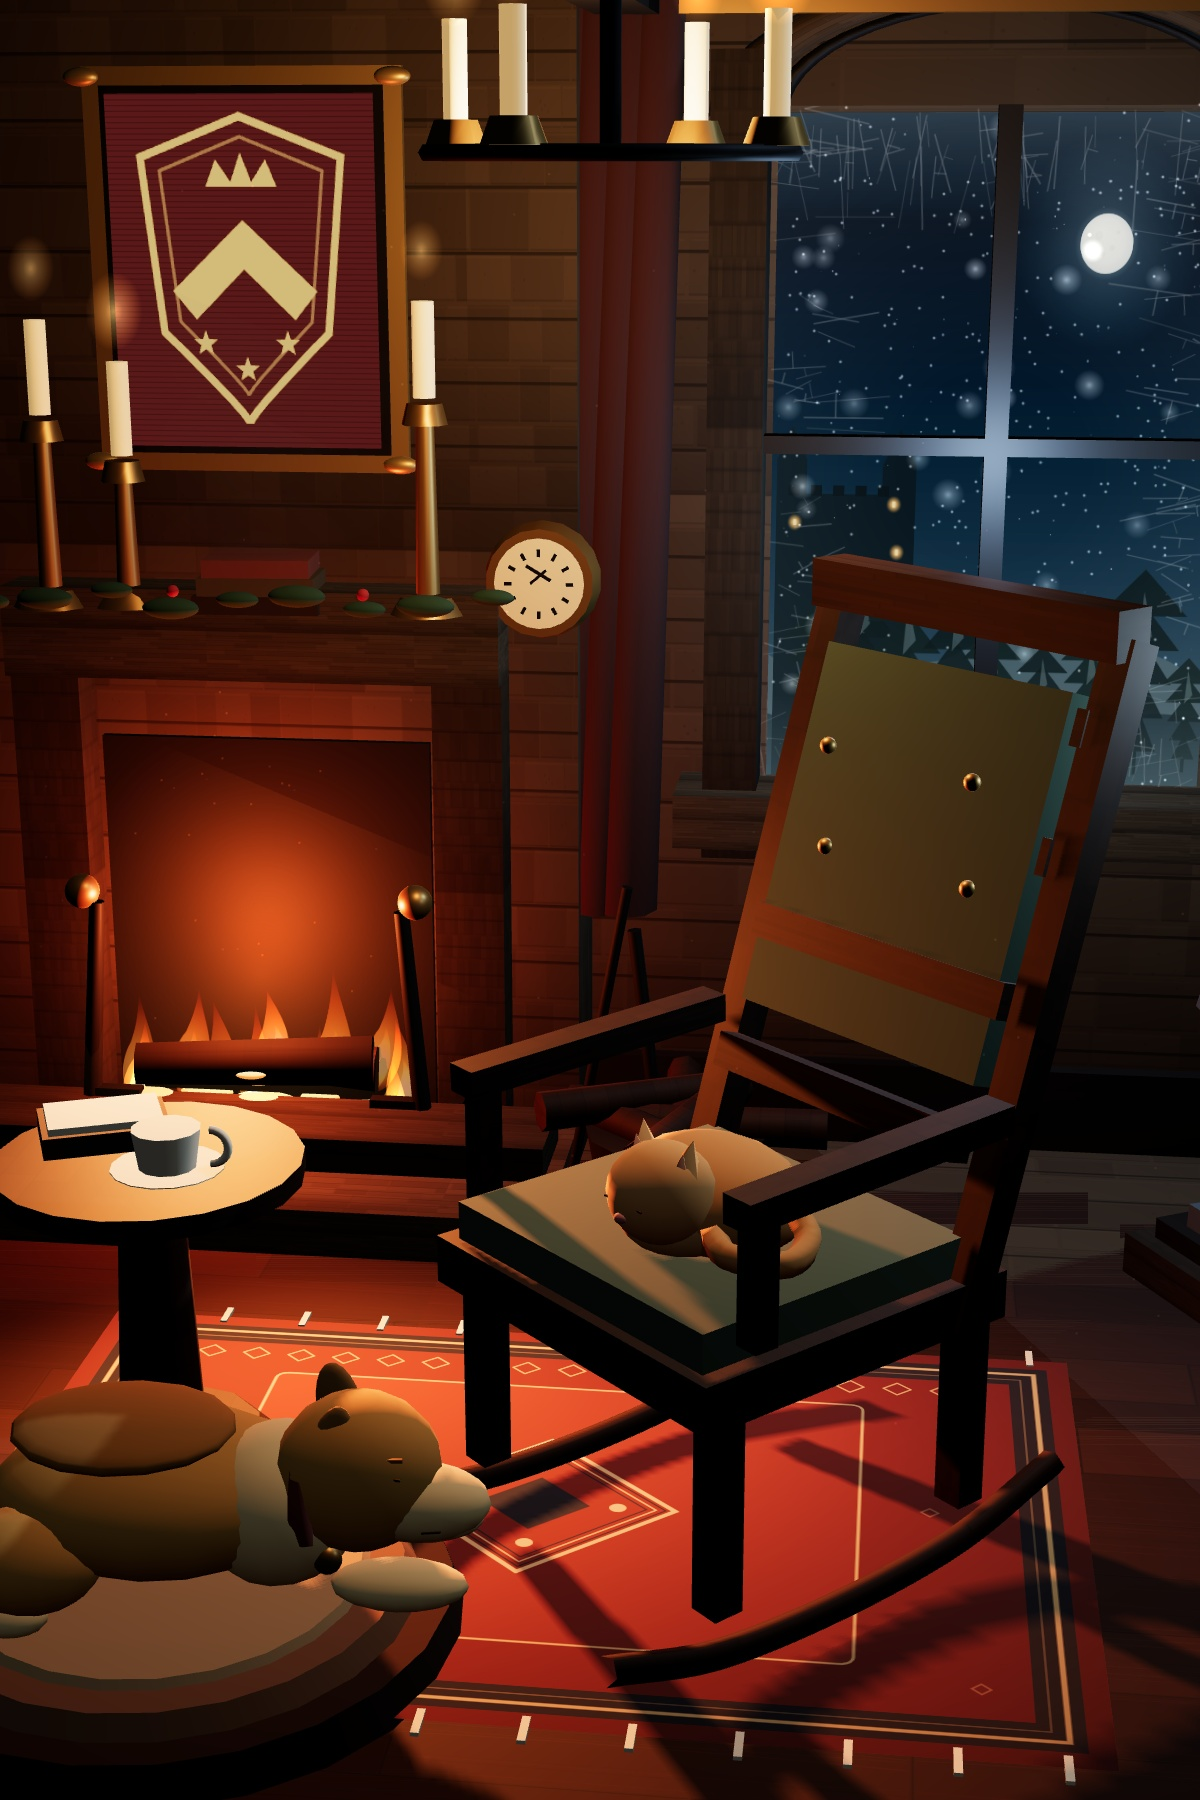
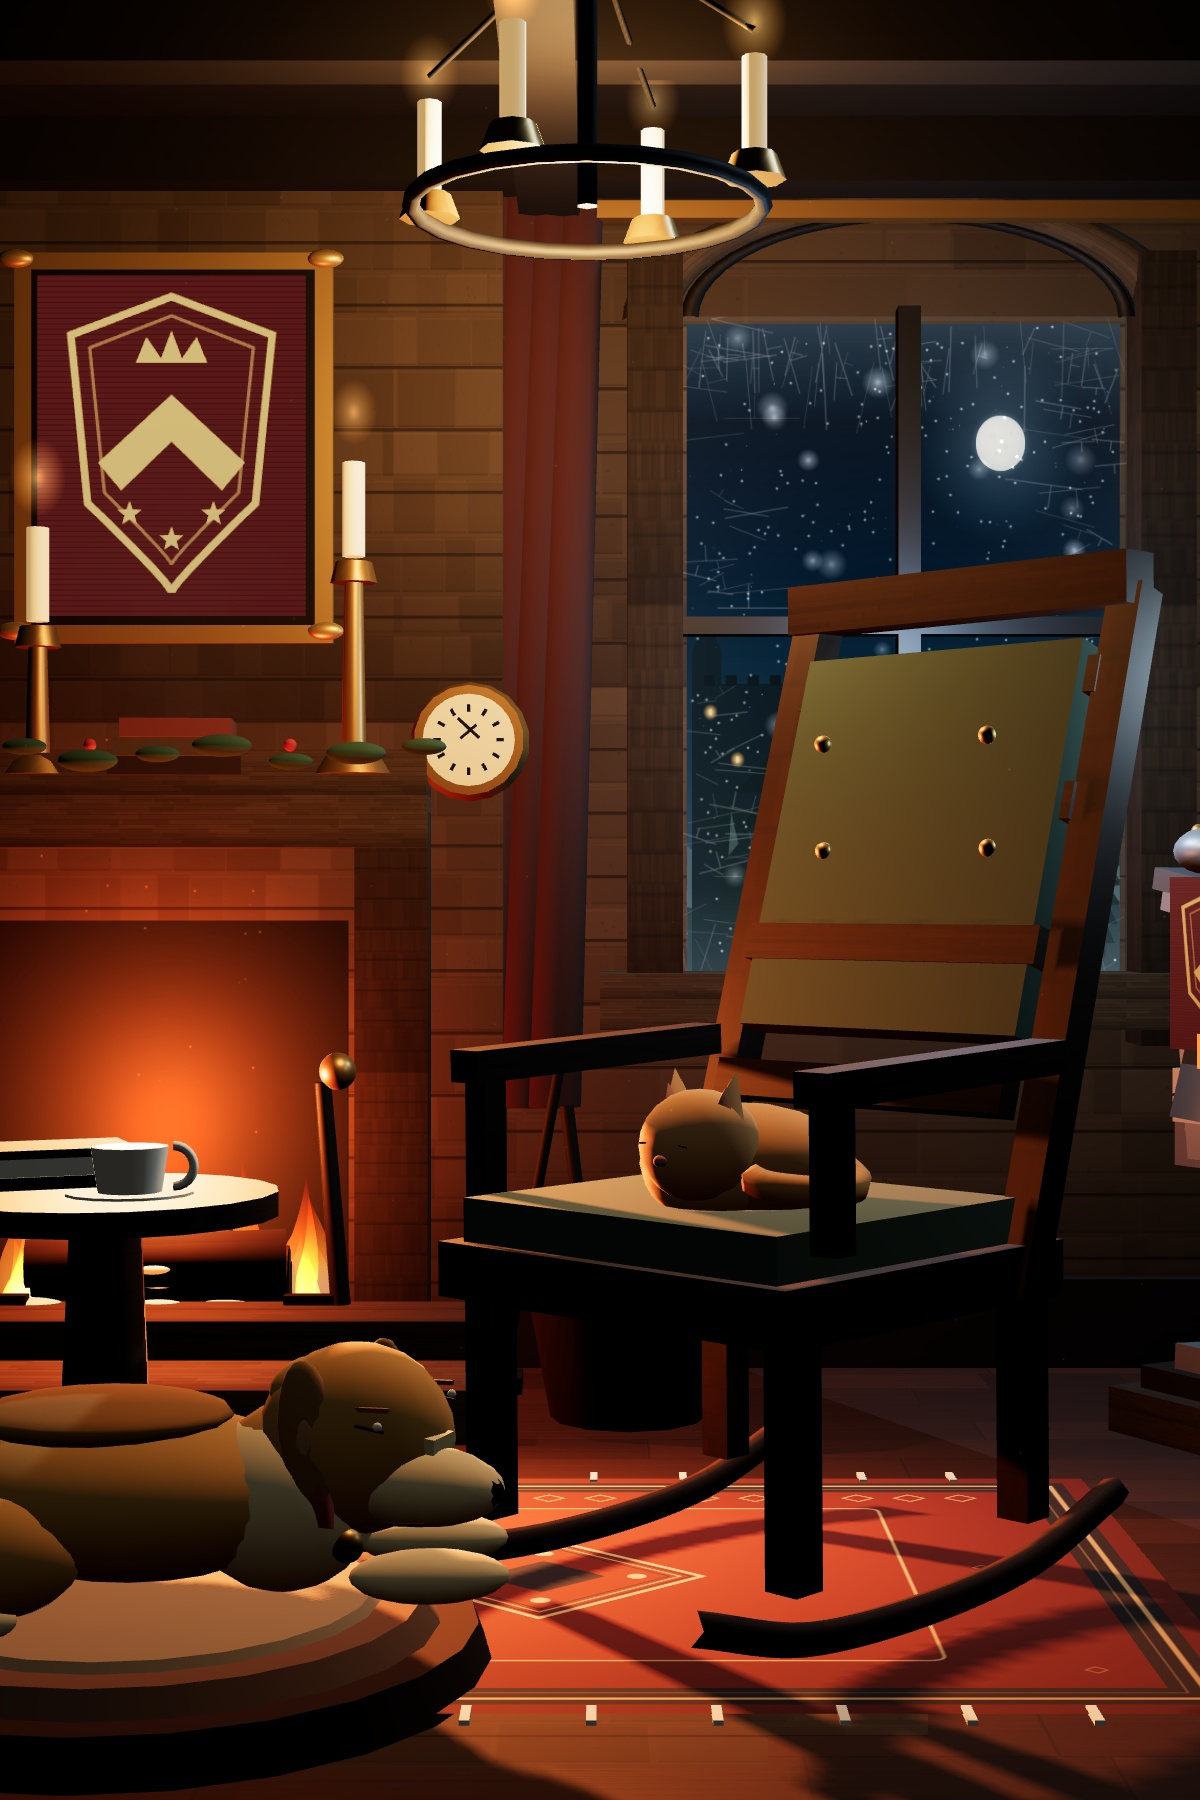
feat: 炉火节奏、雪速与桌上器物互动
添柴后火势拉满，火焰更大更亮，约十五秒线性落回最低余烬位；未添柴时缓慢自然转暗，最低仍保留火苗。雪片速度再降到原来的三成。铠甲靠右墙摆放，敬礼收敛为不穿模的低头动作。新增茶杯、书本、摇椅和蜡烛互动：茶杯冒热气，书本开合，摇椅晃动时猫随椅身同步，蜡烛可逐支熄灭/点亮并影响吊灯亮度。狗的头部、眼睛、耳朵和项圈重做。

diff --git a/hearth-keep/index.html b/hearth-keep/index.html
@@ -304,7 +304,7 @@
     <div class="hints">
       <span class="key">拖拽</span><span>环视</span>
       <span class="key">滚轮</span><span>推近</span>
-      <span class="key">点击</span><span>铠甲 · 炉火 · 猫狗</span>
+      <span class="key">点击</span><span>器物 · 猫狗</span>
       <span class="key">F</span><span>添柴</span>
       <span class="key">双击</span><span>归位</span>
     </div>
@@ -1256,7 +1256,7 @@ function candlestick(x, z, h = .28, lit = true){
     flame.position.set(0, .17 + h + .18, 0);
     flame.scale.set(.12, .16, 1);
     g.add(flame);
-    candleFlames.push({ sprite: flame, phase: rng() * TAU, baseY: flame.position.y });
+    candleFlames.push({ sprite: flame, phase: rng() * TAU, baseY: flame.position.y, lit: true, scope: 'mantel' });
   }
   return g;
 }
@@ -1313,7 +1313,7 @@ for (const sx of [-1.43, 1.43]){
   flame.position.set(sx < 0 ? -.13 : .13, .18, .06);
   flame.scale.set(.12, .17, 1);
   g.add(flame);
-  candleFlames.push({ sprite: flame, phase: rng() * TAU, baseY: flame.position.y });
+  candleFlames.push({ sprite: flame, phase: rng() * TAU, baseY: flame.position.y, lit: true, scope: 'sconce' });
   sconces.push(g);
 }
 
@@ -1342,7 +1342,7 @@ for (let i = 0; i < 4; i++){
   flame.position.set(gx, .25, gz);
   flame.scale.set(.12, .16, 1);
   chand.add(flame);
-  candleFlames.push({ sprite: flame, phase: rng() * TAU, baseY: flame.position.y });
+  candleFlames.push({ sprite: flame, phase: rng() * TAU, baseY: flame.position.y, lit: true, scope: 'chandelier' });
 }
 for (let i = 0; i < 4; i++){
   const a = i / 4 * TAU + .4;
@@ -1474,22 +1474,37 @@ const dogChest = sphere(.16, furLight, .2, .17, .01, dogBody);
 dogChest.scale.set(.82, .76, .96);
 const saddle = sphere(.2, furDark, -.05, .285, 0, dogBody, false);
 saddle.scale.set(.9, .17, .72);
-const dogHead = sphere(.135, fur, .33, .245, .035, dogBody);
-dogHead.scale.set(.98, .92, .95);
-const muzzle = sphere(.085, furLight, .425, .205, .055, dogBody);
-muzzle.scale.set(1.35, .66, .9);
-sphere(.032, M.black, .505, .21, .055, dogBody, false).scale.set(.9, .75, 1);
-// floppy ears: one near, one far
-const earNear = sphere(.07, std(0x9f703d, .95, 0), .29, .285, .08, dogBody);
-earNear.scale.set(.52, 1.35, .34);
-earNear.rotation.z = -.24;
-const earFar = sphere(.075, std(0x9f703d, .95, 0), .29, .285, -.055, dogBody);
-earFar.scale.set(.52, 1.3, .34);
-earFar.rotation.z = .18;
-// closed eye and brow on the near side
-box(.04, .0035, .004, M.black, .39, .285, .13, dogBody, false).rotation.z = -.12;
-box(.045, .006, .006, furDark, .39, .31, .12, dogBody, false).rotation.z = .05;
-box(.03, .0025, .003, M.black, .455, .195, .13, dogBody, false).rotation.z = .1;
+// head turned a little toward the room so the sleeping face reads
+const dogHeadGroup = new THREE.Group();
+dogHeadGroup.position.set(.3, .245, .04);
+dogHeadGroup.rotation.y = -.45;
+dogBody.add(dogHeadGroup);
+const dogHead = sphere(.14, fur, 0, .015, 0, dogHeadGroup);
+dogHead.scale.set(.98, .92, .9);
+const browFur = sphere(.085, fur, -.045, .075, .01, dogHeadGroup);
+browFur.scale.set(.9, .6, .85);
+const muzzle = sphere(.085, furLight, .105, -.035, .02, dogHeadGroup);
+muzzle.scale.set(1.45, .62, .9);
+sphere(.034, M.black, .195, -.035, .02, dogHeadGroup, false).scale.set(1, .75, .9);
+// nose bridge and a closed smile
+box(.08, .022, .06, furLight, .1, .025, .015, dogHeadGroup, false).rotation.z = -.08;
+box(.06, .004, .004, M.black, .11, -.075, .075, dogHeadGroup, false).rotation.z = .08;
+for (const side of [-1, 1]){
+  // floppy ears hang from the sides, away from the eyes
+  const ear = sphere(.075, std(0x9f703d, .95, 0), -.02, .035, side * .1, dogHeadGroup);
+  ear.scale.set(.56, 1.35, .34);
+  ear.rotation.z = side * .18;
+  ear.rotation.x = side * -.12;
+  const innerEar = sphere(.04, std(0xbd8a5a, .95, 0), -.015, .02, side * .118, dogHeadGroup, false);
+  innerEar.scale.set(.45, 1.1, .22);
+  // closed eyes and brows on both sides
+  box(.042, .004, .004, M.black, .075, .055, side * .105, dogHeadGroup, false).rotation.z = -.12;
+  box(.048, .006, .006, furDark, .075, .078, side * .095, dogHeadGroup, false).rotation.z = .05;
+  sphere(.006, M.cream, .09, .06, side * .11, dogHeadGroup, false);
+}
+// neck joining head and shoulders
+const dogNeck = sphere(.13, fur, .22, .205, .01, dogBody);
+dogNeck.scale.set(.9, .78, .85);
 // front paws stretched out
 for (const z of [-.1, .1]){
   const paw = sphere(.07, furLight, .4, .085, z, dogBody, false);
@@ -1503,7 +1518,7 @@ for (const z of [-.14, .14]){
   paw.scale.set(1.35, .45, .8);
 }
 // collar and tag
-const dogCollar = new THREE.Mesh(new THREE.TorusGeometry(.098, .021, 6, 18), std(0x7d3d34, .9, 0));
+const dogCollar = new THREE.Mesh(new THREE.TorusGeometry(.1, .022, 6, 18), std(0xa34b3b, .9, 0));
 dogCollar.position.set(.255, .21, .035);
 dogCollar.rotation.y = Math.PI / 2;
 dogBody.add(dogCollar);
@@ -1512,7 +1527,20 @@ sphere(.023, M.brass, .29, .13, .11, dogBody, false);
 const dogTail = tube([[-.18, .14, -.08], [-.28, .1, -.04], [-.33, .07, .04], [-.3, .06, .14], [-.21, .06, .18]], .021, fur, dogBody, 18);
 const tailTip = sphere(.045, furLight, -.19, .06, .19, dogBody, false);
 tailTip.scale.set(1.3, .65, 1.0);
+for (let i = 0; i < 4; i++){
+  const feather = sphere(.025, furLight, -.22 + i * .008, .065, .17 - i * .018, dogBody, false);
+  feather.scale.set(.65, .6, 1.5);
+}
 clickProxy(-.42, .32, .74, .4, 'dog');
+clickProxy(0, 1.0, -.4, .24, 'chair', chairBody);
+for (const cf of candleFlames){
+  const m = new THREE.Mesh(new THREE.SphereGeometry(.075, 6, 5), INVISIBLE_MAT);
+  m.position.copy(cf.sprite.position);
+  m.userData.kind = 'candle';
+  m.userData.candle = cf;
+  cf.sprite.parent.add(m);
+  clickTargets.push(m);
+}
 
 // --- tea table -------------------------------------------------------------
 const table = new THREE.Group();
@@ -1521,17 +1549,39 @@ room.add(table);
 cyl(.245, .245, .035, 20, M.wood, 0, .52, 0, table);
 cyl(.05, .07, .45, 10, M.wood, 0, .28, 0, table);
 cyl(.16, .2, .04, 12, M.wood, 0, .04, 0, table);
-// teacup
-cyl(.055, .045, .065, 12, M.cream, .04, .57, .03, table, false);
+// teacup, still warm
+const cup = new THREE.Group();
+cup.position.set(.04, .537, .03);
+table.add(cup);
+cyl(.09, .09, .008, 16, M.cream, 0, 0, 0, cup, false);
+cyl(.055, .045, .065, 12, M.cream, 0, .035, 0, cup, false);
+const teaSurface = new THREE.Mesh(new THREE.CircleGeometry(.047, 14), std(0x4b2c19, .35, 0, { emissive: 0x1a0b04, emissiveIntensity: .2 }));
+teaSurface.rotation.x = -Math.PI / 2;
+teaSurface.position.set(0, .068, 0);
+cup.add(teaSurface);
 const handle = new THREE.Mesh(new THREE.TorusGeometry(.028, .007, 5, 12, Math.PI), M.cream);
-handle.position.set(.11, .575, .03);
+handle.position.set(.062, .04, 0);
 handle.rotation.z = -Math.PI / 2;
-table.add(handle);
-cyl(.09, .09, .008, 16, M.cream, .04, .535, .03, table, false);
-// little book
-const tableBook = box(.2, .035, .14, std(0x4b3b2b, .9, 0), -.09, .56, -.06, table, false);
-tableBook.rotation.y = .4;
-box(.18, .022, .12, M.cream, -.09, .578, -.06, table, false).rotation.y = .4;
+cup.add(handle);
+const cupSteam = new THREE.Sprite(new THREE.SpriteMaterial({ map: glowTex, color: 0xf3e9d6, transparent: true, opacity: 0, depthWrite: false }));
+cupSteam.position.set(0, .16, 0);
+cupSteam.scale.set(.12, .18, 1);
+cup.add(cupSteam);
+
+// little book, closed on the table
+const bookGroup = new THREE.Group();
+bookGroup.position.set(-.09, .542, -.06);
+bookGroup.rotation.y = .4;
+table.add(bookGroup);
+box(.22, .018, .15, std(0x3e2a1c, .9, 0), 0, .009, 0, bookGroup, false);
+box(.2, .028, .135, M.cream, 0, .031, .004, bookGroup, false);
+const bookCoverPivot = new THREE.Group();
+bookCoverPivot.position.set(0, .05, -.072);
+bookGroup.add(bookCoverPivot);
+box(.22, .012, .15, std(0x4f3928, .9, 0), 0, 0, .075, bookCoverPivot, false);
+box(.012, .002, .09, std(0x9a5144, .8, 0), .055, .012, .045, bookGroup, false);
+clickProxy(0, .07, 0, .1, 'cup', cup);
+clickProxy(0, .06, 0, .12, 'book', bookGroup);
 
 // --- plate armor -----------------------------------------------------------
 const armor = new THREE.Group();
@@ -1797,10 +1847,14 @@ room.add(dust);
 
 let fireBoost = .78;
 let stokePulse = 0;
+let stokeTimer = 0;
 let lastFireWidth = -1;
 let armorPulse = 0;
 let catPulse = 0;
 let dogPulse = 0;
+let cupPulse = 0;
+let chairPulse = 0;
+let bookOpen = false;
 let armorSalute = false;
 
 
@@ -1822,13 +1876,14 @@ function updateFireUi(){
   fireStateEl.textContent = level > .67 ? '噼啪作响' : level > .47 ? '轻轻燃烧' : '只剩暗红';
 }
 function stokeFire(){
-  fireBoost = Math.min(1, fireBoost + .45);
+  fireBoost = 1;
+  stokeTimer = 15;
   stokePulse = 1;
   Sound.stoke();
   updateFireUi();
   showToast('你添了一根柴，火星顺着烟道往上窜。', 1500);
 }
-function triggerSceneClick(kind){
+function triggerSceneClick(kind, obj){
   if (kind === 'armor'){
     armorSalute = true;
     armorPulse = 2.5;
@@ -1844,6 +1899,27 @@ function triggerSceneClick(kind){
     dogPulse = 1.9;
     Sound.dogSigh();
     showToast('金毛的尾巴在地毯上轻轻敲了两下，没睁眼。', 1800);
+  } else if (kind === 'chair'){
+    chairPulse = 1.8;
+    catPulse = Math.max(catPulse, .6);
+    Sound.woodCreak();
+    showToast('摇椅晃了两下，猫跟着轻轻起伏。', 1600);
+  } else if (kind === 'cup'){
+    cupPulse = 1.4;
+    Sound.cupClink();
+    showToast('茶还温着，杯口浮起一缕白汽。', 1500);
+  } else if (kind === 'book'){
+    bookOpen = !bookOpen;
+    Sound.pageFlip();
+    showToast(bookOpen ? '书页翻到夹着书签的那一页。' : '你把书合上，放回桌面。', 1500);
+  } else if (kind === 'candle'){
+    const cf = obj && obj.userData.candle;
+    if (cf){
+      cf.lit = !cf.lit;
+      cf.sprite.visible = cf.lit;
+      Sound.candle(cf.lit);
+      showToast(cf.lit ? '蜡烛重新亮了。' : '蜡烛灭了，一缕青烟散开。', 1300);
+    }
   }
 }
 function handleSceneClick(e){
@@ -1856,7 +1932,7 @@ function handleSceneClick(e){
     let o = hit.object;
     while (o){
       if (o.userData && o.userData.kind){
-        triggerSceneClick(o.userData.kind);
+        triggerSceneClick(o.userData.kind, o);
         return true;
       }
       o = o.parent;
@@ -1875,8 +1951,14 @@ stokeBtn.addEventListener('click', (e) => {
 let armorLift = 0;
 let clockMinute = 2.1;
 function updateFire(dt, time){
-  // the fire slowly burns down to a low, never extinguished ember bed
-  fireBoost = Math.max(.25, fireBoost - dt * .009);
+  // a stoked fire burns down to the low, never extinguished ember bed in ~15s;
+  // an unstoked fire settles much more slowly
+  if (stokeTimer > 0){
+    stokeTimer = Math.max(0, stokeTimer - dt);
+    fireBoost = .25 + .75 * (stokeTimer / 15);
+  } else {
+    fireBoost = Math.max(.25, fireBoost - dt * .008);
+  }
   stokePulse = Math.max(0, stokePulse - dt * .8);
   const level = fireBoost;
   const boost = stokePulse;
@@ -1887,8 +1969,8 @@ function updateFire(dt, time){
   fireGlow.scale.set(.66 + level * .34 + boost * .1, .8 + level * .4 + boost * .12, 1);
   for (const sp of flameSprites){
     const u = sp.userData;
-    const breathe = 1 + Math.sin(time * u.speed * 5.2 + u.phase) * .075 + boost * .16;
-    sp.scale.set(u.s * (.42 + level * .5) * (1 + Math.sin(time * 3.2 + u.phase) * .06), u.s * (.45 + level * .55) * (2.1 + (u.speed > 1.1 ? .35 : 0)) * breathe, 1);
+    const breathe = 1 + Math.sin(time * u.speed * 5.2 + u.phase) * .075 + boost * .24;
+    sp.scale.set(u.s * (.42 + level * .5 + boost * .1) * (1 + Math.sin(time * 3.2 + u.phase) * .06), u.s * (.45 + level * .55 + boost * .12) * (2.1 + (u.speed > 1.1 ? .35 : 0)) * breathe, 1);
     sp.position.x = u.bx + Math.sin(time * 1.7 + u.phase) * .012;
     sp.position.y = u.by + Math.sin(time * 2.6 + u.phase * 1.4) * .018 + boost * .02;
     sp.material.opacity = .15 + level * .55 + Math.sin(time * 9 + u.phase) * .08 + boost * .12;
@@ -1904,12 +1986,16 @@ function updateFire(dt, time){
     sm.material.opacity = .02 + level * .03 + Math.sin(time * .6 + u.phase) * .01;
   }
   for (const cf of candleFlames){
+    cf.sprite.visible = cf.lit;
+    if (!cf.lit) continue;
     const s = .1 + Math.sin(time * 8.7 + cf.phase) * .012 + Math.sin(time * 19 + cf.phase * 2) * .005;
     cf.sprite.scale.set(s, s * 1.4, 1);
     cf.sprite.position.y = cf.baseY + Math.sin(time * 6 + cf.phase) * .005;
     cf.sprite.material.opacity = .62 + Math.sin(time * 10 + cf.phase) * .1;
   }
-  chandLight.intensity = 3.1 + Math.sin(time * 7.1) * .12 + Math.sin(time * 13.3) * .06;
+  const chandCandles = candleFlames.filter(c => c.scope === 'chandelier');
+  const litChand = chandCandles.filter(c => c.lit).length;
+  chandLight.intensity = (.8 + 4.8 * litChand / Math.max(1, chandCandles.length)) * (1 + Math.sin(time * 7.1) * .025);
   moon.intensity = 1.5 + Math.sin(time * .23) * .04;
   updateFireUi();
   clockMinute += dt * .014;
@@ -1921,7 +2007,7 @@ function updateSnow(dt, time){
   const pa = snow.geometry.attributes.position.array;
   for (let i = 0; i < SNOW_N; i++){
     const d = snowData[i];
-    pa[i * 3 + 1] -= d.speed * dt * (10 / 3);
+    pa[i * 3 + 1] -= d.speed * dt;
     if (pa[i * 3 + 1] < .77){
       pa[i * 3 + 1] = 2.14;
     }
@@ -1930,7 +2016,7 @@ function updateSnow(dt, time){
   snow.geometry.attributes.position.needsUpdate = true;
   for (const sp of bigFlakes){
     const d = sp.userData;
-    sp.position.y -= d.speed * dt * (10 / 3);
+    sp.position.y -= d.speed * dt;
     if (sp.position.y < .78){
       sp.position.y = 2.14;
       sp.position.x = .31 + rng() * .81;
@@ -1980,14 +2066,22 @@ function updateLife(dt, time){
 
   catPulse = Math.max(0, catPulse - dt);
   dogPulse = Math.max(0, dogPulse - dt);
-  const rock = Math.sin(time * .55) * .012 + Math.sin(time * 1.3) * .0012;
+  chairPulse = Math.max(0, chairPulse - dt);
+  cupPulse = Math.max(0, cupPulse - dt);
+  const rock = Math.sin(time * .55) * .012 + Math.sin(time * 1.3) * .0012 + Math.sin(time * 4.6) * .05 * chairPulse;
   chairBody.rotation.x = rock;
+  cup.position.y = .537 + Math.sin(time * 13) * .012 * cupPulse;
+  cup.rotation.z = Math.sin(time * 15) * .045 * cupPulse;
+  cupSteam.material.opacity = cupPulse * .32;
+  cupSteam.position.y = .16 + (1 - cupPulse) * .04;
+  cupSteam.scale.set(.12 + (1 - cupPulse) * .08, .18 + (1 - cupPulse) * .1, 1);
+  bookCoverPivot.rotation.x += ((bookOpen ? -1.15 : 0) - bookCoverPivot.rotation.x) * Math.min(1, dt * 7);
   catBody.scale.y = .58 * (1 + Math.sin(time * 1.45) * .035);
   catHead.position.y = .09 + Math.sin(time * 1.45 + .4) * .004;
   catTail.rotation.y = Math.sin(time * .7) * .06 + catPulse * .22;
   catTail.rotation.z = catPulse * .1;
   dogTorso.scale.y = .52 * (1 + Math.sin(time * .78) * .024);
-  dogHead.rotation.x = Math.sin(time * .5) * .018 + dogPulse * .12;
+  dogHeadGroup.rotation.x = Math.sin(time * .5) * .018 + dogPulse * .12;
   dogTail.rotation.y = Math.sin(time * .44) * .03 + dogPulse * Math.sin(time * 18) * .18;
   dogBody.position.y = Math.sin(time * .44) * .003;
 }
@@ -2197,10 +2291,36 @@ const Sound = (() => {
     if (!enabled()) return;
     burst({ dur: .3, peak: .012, type: 'bandpass', freq: 1800, q: .7, attack: .04 });
   }
+  function cupClink(){
+    if (!enabled()) return;
+    burst({ dur: .035, peak: .016, type: 'highpass', freq: 2800, q: .8, attack: .001 });
+    tone(1260, .32, .009, 'sine', 980);
+    tone(1910, .22, .004, 'sine', 1580, .01);
+  }
+  function pageFlip(){
+    if (!enabled()) return;
+    burst({ dur: .2, peak: .016, type: 'bandpass', freq: 1900, q: .75, attack: .03 });
+    burst({ dur: .12, peak: .008, type: 'bandpass', freq: 3200, q: 1, attack: .05 });
+  }
+  function woodCreak(){
+    if (!enabled()) return;
+    tone(124, .36, .009, 'sawtooth', 88);
+    burst({ dur: .18, peak: .006, type: 'bandpass', freq: 620, q: 1.2, attack: .03 });
+  }
+  function candle(lit){
+    if (!enabled()) return;
+    if (lit){
+      burst({ dur: .06, peak: .014, type: 'highpass', freq: 2400, q: .7, attack: .001 });
+      tone(760, .18, .004, 'sine', 620);
+    } else {
+      burst({ dur: .28, peak: .022, type: 'lowpass', freq: 700, q: .6, attack: .01 });
+      tone(280, .2, .006, 'sine', 160);
+    }
+  }
 
   if (!AC || !button){
     syncUi();
-    return { enable(){}, disable(){}, toggle(){}, stoke(){}, clank(){}, purr(){}, dogSigh(){}, rustle(){}, get on(){ return false; }, get started(){ return false; } };
+    return { enable(){}, disable(){}, toggle(){}, stoke(){}, clank(){}, purr(){}, dogSigh(){}, rustle(){}, cupClink(){}, pageFlip(){}, woodCreak(){}, candle(){}, get on(){ return false; }, get started(){ return false; } };
   }
   button.addEventListener('click', (e) => { e.preventDefault(); e.stopPropagation(); toggle(); });
   function autoStart(e){
@@ -2241,7 +2361,7 @@ const Sound = (() => {
   }
   syncUi();
   return {
-    enable, disable, toggle, stoke, clank, purr, dogSigh, rustle,
+    enable, disable, toggle, stoke, clank, purr, dogSigh, rustle, cupClink, pageFlip, woodCreak, candle,
     level(){
       if (!analyser) return 0;
       const data = new Uint8Array(analyser.fftSize);

diff --git a/index.html b/index.html
@@ -1041,7 +1041,7 @@
        data-no="09" data-title="炉火长夜" data-en="A Fire in the Keep"
        data-note="壁炉、铠甲、打盹的猫和金毛，把一场大雪关在窗外。"
        data-accent="#d7a15f" aria-label="进入《炉火长夜》">
-      <span class="card-media"><img src="hearth-keep/poster.jpg?v=20261105c" draggable="false" alt="长夜堡的冬夜会客厅，壁炉燃烧，铠甲守窗，猫趴在摇椅上，金毛睡在炉边" width="1200" height="1800" /></span>
+      <span class="card-media"><img src="hearth-keep/poster.jpg?v=20261105d" draggable="false" alt="长夜堡的冬夜会客厅，壁炉燃烧，铠甲守窗，猫趴在摇椅上，金毛睡在炉边" width="1200" height="1800" /></span>
       <span class="card-frame" aria-hidden="true"></span>
       <span class="card-top">
         <span class="card-meta"><span class="card-no">No. 09</span><span class="card-phase">冬堡 · 深夜 23:47</span></span>
